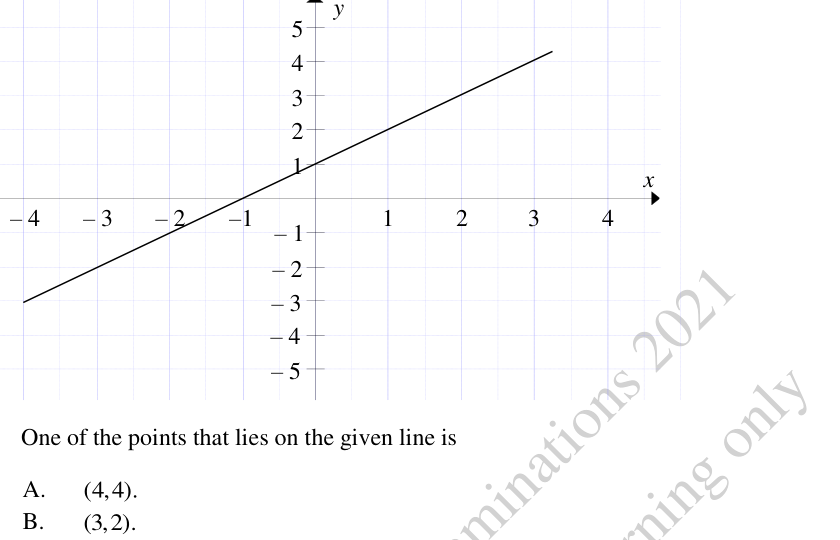
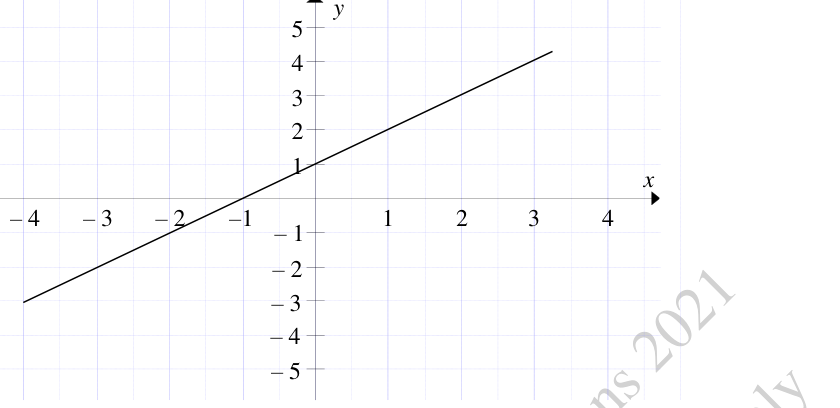
Review Class X Maths chapter-wise MCQ mappings (#41)
* Review Class X Mathematics chapter mappings and ladder answer

* State the nonzero condition in the repeated graph question

diff --git a/lib/mathematicsChapterPapers.ts b/lib/mathematicsChapterPapers.ts
@@ -5,6 +5,7 @@ import { reviewedMathematicsPapers } from './mathematicsPapers';
 import type { PaperData } from './paperDataService';
 import { paperChoices, paperScoringAnswers } from './paperPresentation';
 import { syllabusLevel } from './syllabusPresentation';
+import { classXChapterReview, mathematicsChapterRepeats, removedClassXChapterMappings } from './mathematicsChapterReview';
 
 export const mathematicsChapterSyllabus = { 9: ix, 10: x };
 const modelCodes = ['MTH-IX-P1', 'MTH-IX-P2'];
@@ -41,22 +42,29 @@ export function mathematicsChapterCognitiveLevel(question: PaperData['questions'
 
 export function mathematicsChapterSources(papers: PaperData[], grade: 9 | 10) {
   const unitByOutcome = new Map(mathematicsChapterSyllabus[grade].flatMap(unit =>
-    unit.subtopics.flatMap(topic => topic.slos.map(slo => [slo.code, unit.unitNumber] as const)),
+    unit.subtopics.flatMap(topic => topic.slos.map(slo => [slo.code, {
+      code: slo.code, description: slo.description, unitNumber: unit.unitNumber, topic: unit.name, grade,
+    }] as const)),
   ));
   return papers.flatMap(paper => paper.questions.flatMap(original => {
     const region = original.sourceRegion;
-    if (!region.current_syllabus_reviewed || region.mapping_scope?.grade !== grade) return [];
-    // A question moved to another grade can be out of its original syllabus and still have a reviewed current outcome.
-    const mappings = (region.current_mapping ?? []).filter(mapping => unitByOutcome.has(mapping.code));
-    const units = [...new Set(mappings.map(mapping => unitByOutcome.get(mapping.code)!))];
-    const duplicate = mathematicsIx2026DuplicateKey(paper.paperCode, original.questionNumber);
+    if (!region.current_syllabus_reviewed) return [];
+    const reference = paper.paperCode + '/' + original.questionNumber;
+    if (grade === 10 && removedClassXChapterMappings.has(reference)) return [];
+    const primary = region.mapping_scope?.grade === grade ? region.current_mapping ?? [] : [];
+    const extraCode = grade === 10 ? classXChapterReview[paper.paperCode]?.[original.questionNumber] : undefined;
+    const codes = [...primary.map(mapping => mapping.code), ...(extraCode ? [extraCode] : [])];
+    const mappings = new Map<number, NonNullable<ReturnType<typeof unitByOutcome.get>>>();
+    for (const code of codes) {
+      const outcome = unitByOutcome.get(code);
+      if (outcome && !mappings.has(outcome.unitNumber)) mappings.set(outcome.unitNumber, outcome);
+    }
+    if (!mappings.size) return [];
+    const duplicate = mathematicsChapterRepeats.get(reference) ?? mathematicsIx2026DuplicateKey(paper.paperCode, original.questionNumber);
     const question = duplicate ? { ...original, sourceRegion: { ...region, reviewed_duplicate_key: duplicate } } : original;
     const options = paperChoices(region.choices);
     const answers = paperScoringAnswers(region, options);
-    return units.map(unit => ({
-      paper, question, unit, options, answers,
-      mapping: mappings.find(mapping => unitByOutcome.get(mapping.code) === unit)!,
-    }));
+    return [...mappings].map(([unit, mapping]) => ({ paper, question, unit, options, answers, mapping }));
   }));
 }
 

diff --git a/tests/mathematics-x-chapter-review.test.ts b/tests/mathematics-x-chapter-review.test.ts
@@ -1,0 +1,37 @@
+import { describe, expect, it } from 'vitest';
+import { mathematicsChapterSourcesFor } from '@/lib/mathematicsChapterPapers';
+import { getFallbackPaper } from '@/lib/paperDataService';
+import { groupDuplicateQuestions } from '@/lib/uniqueQuestions';
+
+describe('Reviewed Class X Mathematics chapter placement', () => {
+  const classX = mathematicsChapterSourcesFor(getFallbackPaper, 10);
+  const classIx = mathematicsChapterSourcesFor(getFallbackPaper, 9);
+  const scored = (unit: number) => classX.filter(row => row.unit === unit && row.answers.length);
+  const reference = (row: typeof classX[number]) => `${row.paper.paperCode}/${row.question.questionNumber}`;
+
+  it('uses real assessment outcomes and groups repeated source questions in chapter practice', () => {
+    const graph = scored(16);
+    expect(graph.find(row => reference(row) === 'MTH-X-2022-P1/27')?.mapping.code).toBe('16.1.2');
+    expect(graph.find(row => reference(row) === 'MTH-X-2025-P1/21')?.mapping.code).toBe('16.3.1');
+    expect(graph.map(reference)).not.toContain('MTH-X-2022-P1/29'); // A vertical line is not a function of x.
+    expect(classIx.some(row => reference(row) === 'MTH-X-2022-P1/27' && row.unit === 9)).toBe(true);
+    const graphGroups = groupDuplicateQuestions(graph, row => row.question).map(group => group.map(reference));
+    expect(graphGroups).toContainEqual(['MTH-X-2024-P1/22', 'MTH-X-2026-P1/22']);
+    expect(graphGroups).toHaveLength(15);
+    expect(groupDuplicateQuestions(scored(21), row => row.question)).toHaveLength(3);
+    expect(scored(21).map(reference)).toContain('MTH-IX-2025-P1/42');
+    expect(scored(21).map(reference)).not.toContain('MTH-IX-2017-P1/26');
+  });
+
+  it('keeps only gradable probability questions and applicable trigonometry questions', () => {
+    expect(scored(23).map(reference)).toEqual(['MTH-X-P1/41', 'MTH-X-P1/42', 'MTH-X-P1/43', 'MTH-X-P1/44', 'MTH-X-P1/45']);
+    const trig = scored(19).map(reference);
+    expect(trig).toHaveLength(8);
+    expect(trig).toContain('MTH-X-2026-P1/36');
+    expect(trig).not.toContain('MTH-X-2021-P1/38');
+    expect(trig).not.toContain('MTH-X-2024-P1/31');
+    const ladder = classX.find(row => reference(row) === 'MTH-X-2024-P1/31');
+    expect(ladder?.mapping.code).toBe('19.4.1');
+    expect(ladder?.answers).toEqual([]);
+  });
+});

diff --git a/lib/mathematicsChapterReview.ts b/lib/mathematicsChapterReview.ts
@@ -1,0 +1,34 @@
+// Additional current Class X outcomes confirmed against the printed Paper I questions.
+// The original class and earlier valid mappings are retained in the source papers.
+export const classXChapterReview: Record<string, Record<string, string>> = {
+  'MTH-X-2017-P1': { '10': '16.2.1' },
+  'MTH-X-2018-P1': { '10': '16.2.1' },
+  'MTH-X-2019-P1': { '10': '16.2.1', '11': '16.1.2' },
+  'MTH-X-2021-P1': { '27': '16.1.2', '28': '16.1.2' },
+  'MTH-X-2022-P1': { '27': '16.1.2' },
+  'MTH-X-2023-P1': { '20': '16.1.2', '21': '16.3.1' },
+  'MTH-X-2024-P1': { '21': '16.1.2', '22': '16.3.1', '31': '19.4.1' },
+  'MTH-X-2025-P1': { '20': '16.1.2', '21': '16.3.1', '33': '19.4.1' },
+  'MTH-X-2026-P1': { '20': '16.1.2', '36': '19.4.1' },
+  'MTH-IX-2025-P1': { '42': '21.1.2' },
+  'MTH-IX-P1': { '6': '16.2.1' },
+};
+
+// The first two ask for a centroid ratio, which is not a construction outcome.
+// The last two substitute into a sector-area formula without a real-world application.
+export const removedClassXChapterMappings = new Set([
+  'MTH-IX-2017-P1/26', 'MTH-IX-2019-P1/32', 'MTH-X-2021-P1/38', 'MTH-X-2022-P1/36',
+]);
+
+// Reprinted questions may have different crops despite testing the same setup and choices.
+const repeats = [
+  ['MTH-X-2019-P1/10', 'MTH-IX-P1/6'],
+  ['MTH-X-2019-P1/11', 'MTH-X-2025-P1/20'],
+  ['MTH-X-2024-P1/21', 'MTH-X-2026-P1/20'],
+  ['MTH-X-2024-P1/22', 'MTH-X-2026-P1/22'],
+  ['MTH-IX-2021-P1/48', 'MTH-IX-2023-P1/42'],
+];
+
+export const mathematicsChapterRepeats = new Map(repeats.flatMap(group =>
+  group.map(reference => [reference, 'mathematics-chapter-repeat-' + group[0]] as const),
+));

diff --git a/app/past-papers/[id]/page.tsx b/app/past-papers/[id]/page.tsx
@@ -148,13 +148,14 @@ export default async function PastPaperDetailPage({ params }: PageProps) {
       if (!fbQ) return dbQ;
       const sscComputer = /^CS-(?:IX|X)-(?:\d{4}-)?P[12]$/.test(fallback.paperCode);
       const useBundledMcq = sscComputer && !paper.sourceDocumentId && fallback.paperCode.endsWith('-P1');
+      const useBundledMathReview = !paper.sourceDocumentId && fallback.paperCode === 'MTH-X-2024-P1' && ['31', '32'].includes(String(fbQ.questionNumber));
       return {
         ...dbQ,
         ...(useBundledMcq ? { questionText: fbQ.questionText } : {}),
         sourceRegion: {
           ...fbQ.sourceRegion,
           ...(typeof dbQ.sourceRegion === 'object' && dbQ.sourceRegion ? dbQ.sourceRegion : {}),
-          ...(useBundledMcq ? fbQ.sourceRegion : {}),
+          ...(useBundledMcq || useBundledMathReview ? fbQ.sourceRegion : {}),
           current_syllabus_reviewed: fbQ.sourceRegion.current_syllabus_reviewed ?? true,
           syllabus_reviewed: fbQ.sourceRegion.syllabus_reviewed ?? true,
           mapping_scope: fbQ.sourceRegion.mapping_scope,

diff --git a/services/materials/practice.ts b/services/materials/practice.ts
@@ -127,7 +127,7 @@ export async function mappedChapterGroups(board: string, grade: number, subject:
           diagramBased: question.diagramBased, option_feedback: question.sourceRegion.option_feedback,
           marks: question.marks,
           cognitiveLevel: mathematicsLevelLabels[mathematicsChapterCognitiveLevel(question) ?? ''] ?? 'Unspecified',
-          sourceRegion: paperMetadata({ ...question.sourceRegion, current_slo: mapping.code, current_mapping: [mapping] }),
+          sourceRegion: paperMetadata({ ...question.sourceRegion, current_slo: mapping.code, current_mapping: [mapping], mapping_scope: { board: 'AKU-EB', subject: 'Mathematics', grade } }),
         }));
       const imported = published.flatMap(group => group.questions).filter(q => q.unitNumber === unit.unitNumber);
       const questions = [...bundled, ...imported].map((question, index) => ({ ...question, questionNumber: index + 1 }));

diff --git a/tests/mathematics-x-2026.test.ts b/tests/mathematics-x-2026.test.ts
@@ -30,7 +30,7 @@ describe('Class X 2026 Mathematics papers', () => {
     const scorable = p1.questions.filter(q => paperScoringAnswers(q.sourceRegion, paperChoices(q.sourceRegion.choices)).length);
     expect(scorable).toHaveLength(42);
     expect(p1.questions.filter(q => !scorable.includes(q)).map(q => q.questionNumber)).toEqual(['10', '39', '43']);
-    expect(mapped.filter(row => row.paper === p1 && row.answers.length)).toHaveLength(40);
+    expect(new Set(mapped.filter(row => row.paper === p1 && row.answers.length).map(row => row.question.id)).size).toBe(40);
     expect(byGrade[0].some(row => row.paper === p1 && row.question.questionNumber === '7' && row.unit === 6)).toBe(true);
     expect(byGrade[1].some(row => row.paper === p1 && row.question.questionNumber === '22' && row.unit === 16)).toBe(true);
     expect(mapped.filter(row => row.paper === p2)).toHaveLength(13);

diff --git a/tests/mathematics-x-2024.test.ts b/tests/mathematics-x-2024.test.ts
@@ -102,6 +102,13 @@ describe('Mathematics X (SSC-II) annual 2024 source import', () => {
     const questions = getFallbackPaper('MTH-X-2024-P1')!.questions;
     for (const q of questions) {
       const ans = paperAnswer(q.sourceRegion, paperChoices(q.sourceRegion.choices));
+      if (q.questionNumber === '31') {
+        expect(ans).toBeUndefined();
+        expect(q.sourceRegion.official_answer).toBe('B');
+        expect(q.sourceRegion.answer_status).toBe('KEY_CONFLICT');
+        expect(q.sourceRegion.answer_review_note).toContain('None of the printed choices');
+        continue;
+      }
       expect(ans).toBeDefined();
       expect(['A', 'B', 'C', 'D']).toContain(ans);
     }
